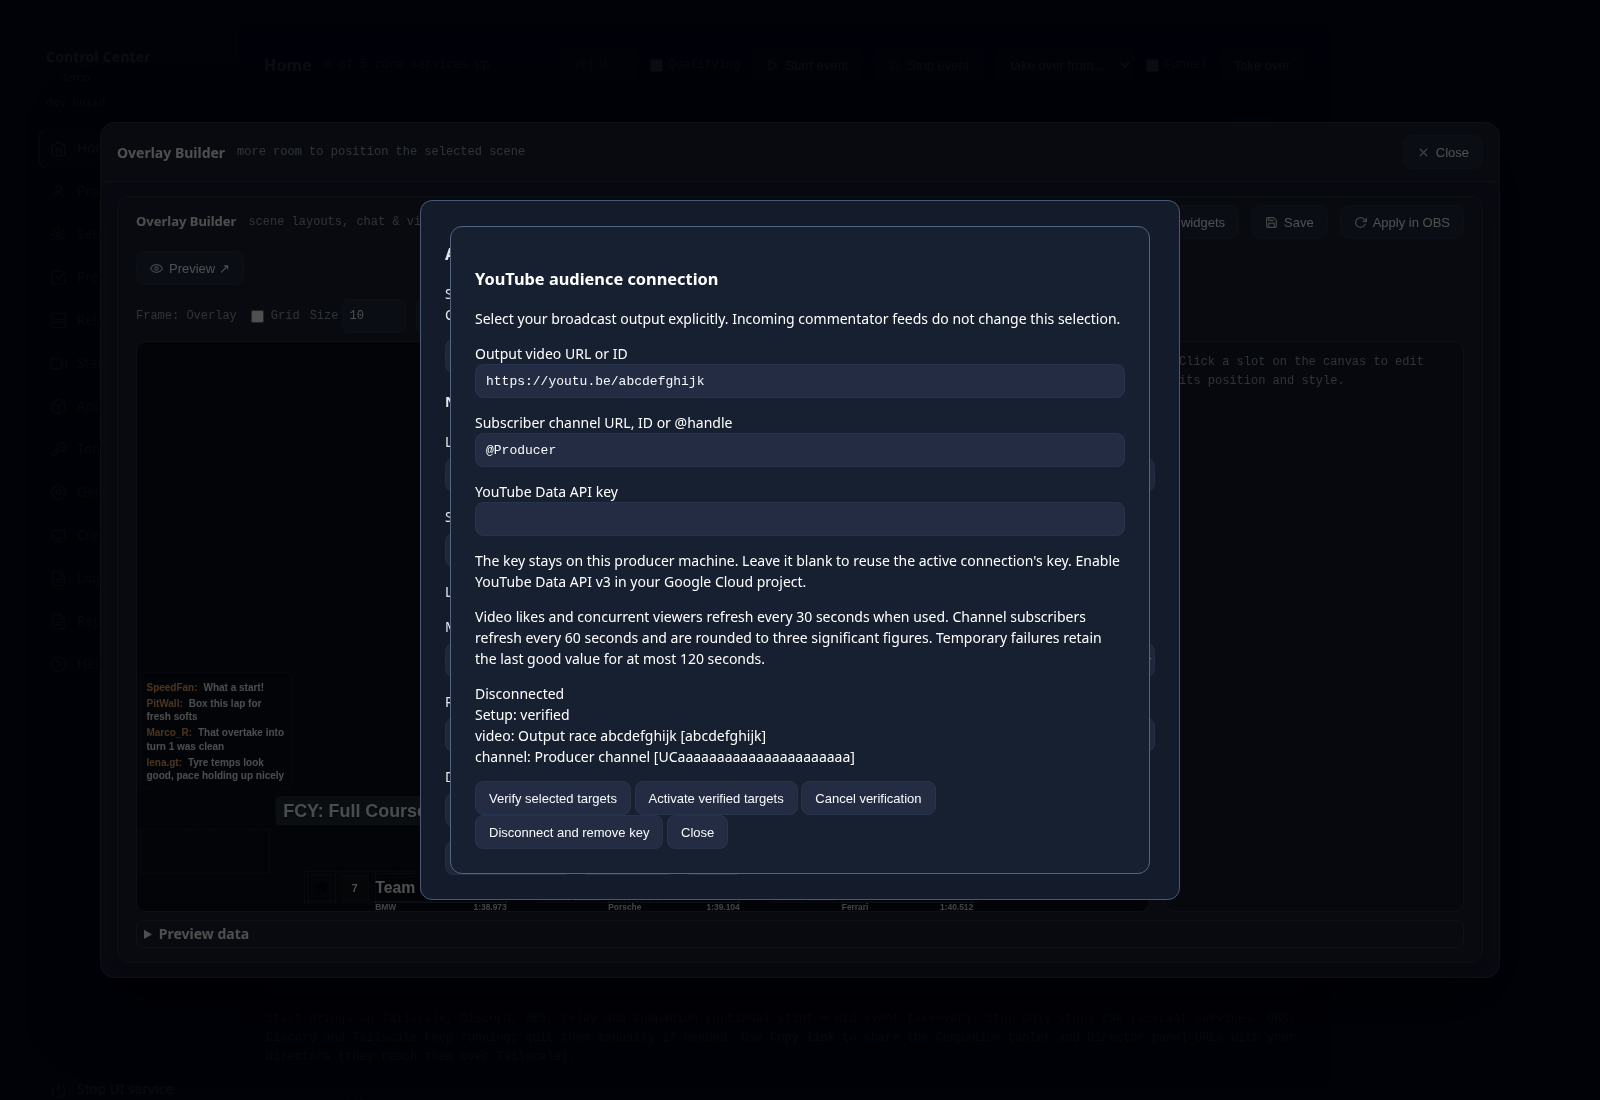
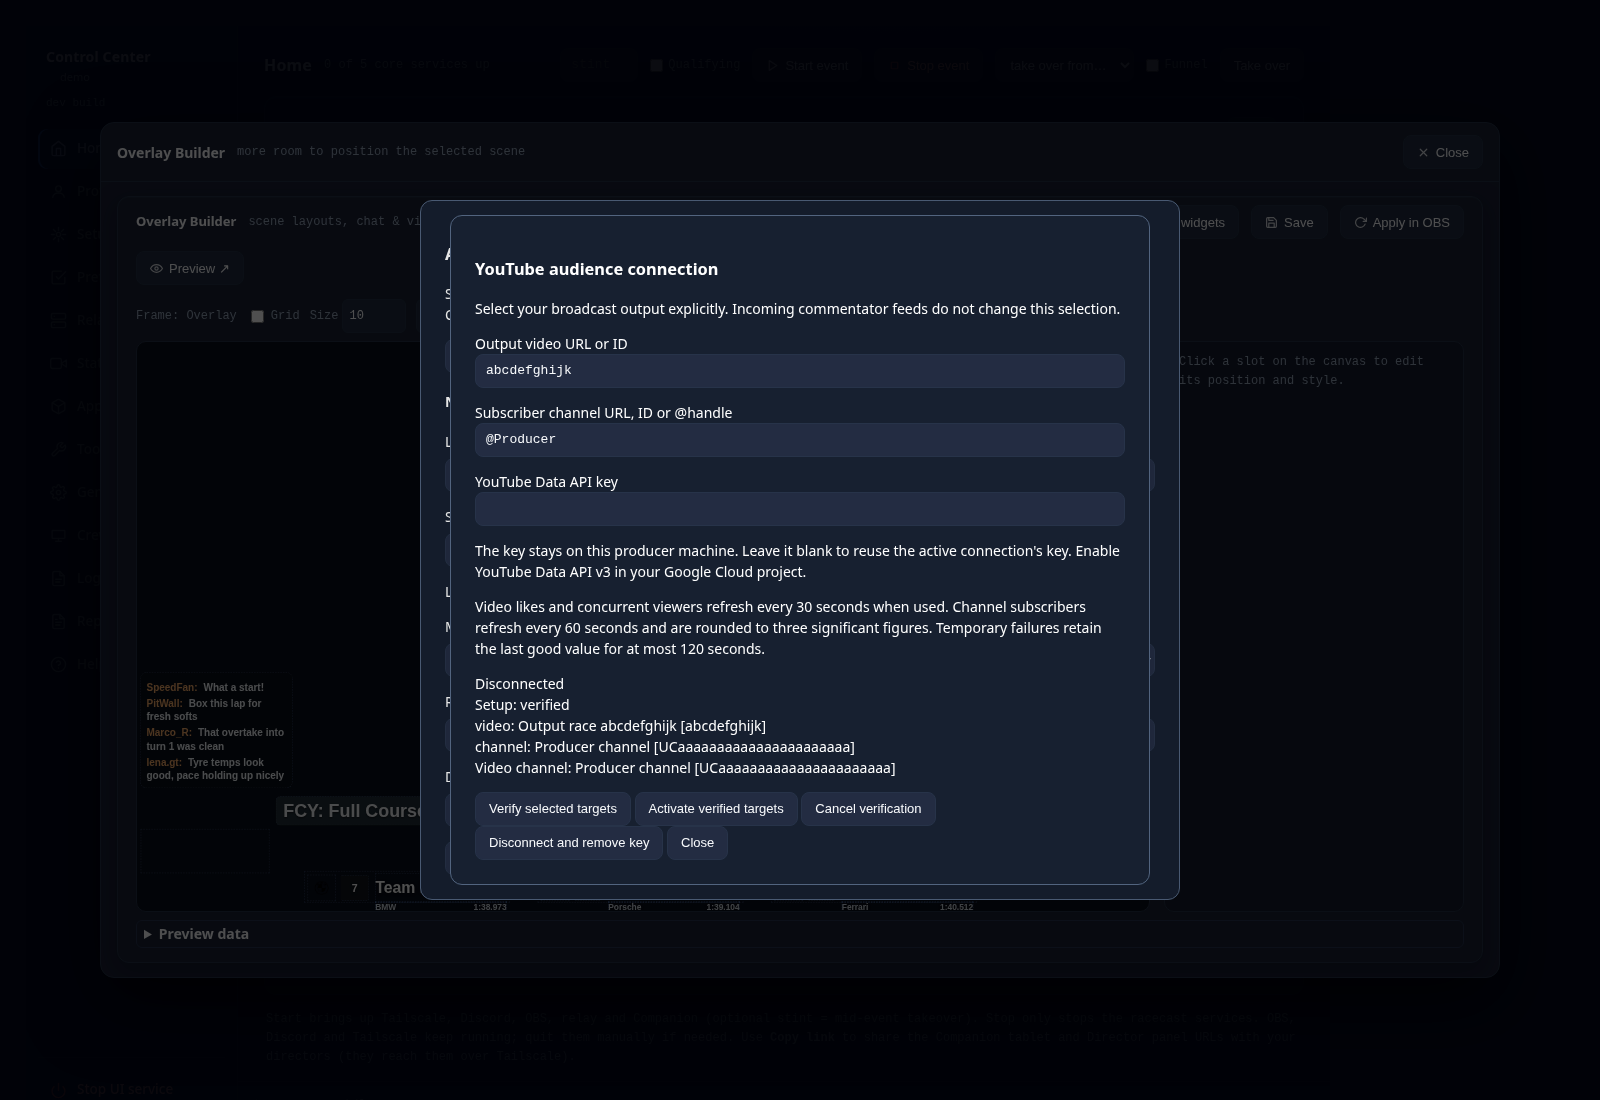
fix(audience): retain setup diagnostics and require edited-target verification

Changed region(s): [[0.2812, 0.4945, 0.7188, 0.7727], [0.2812, 0.2164, 0.6875, 0.4636]]

diff --git a/src/ui/control-center.html b/src/ui/control-center.html
@@ -3130,7 +3130,7 @@ function youtubeCurrent(session) {
 }
 function youtubeOpen() {
   clearTimeout(youtubeTimer);
-  const session = {audience:audienceSession, profile:ovState.active, attempt:null, busy:false, request:0, dirty:false};
+  const session = {audience:audienceSession, profile:ovState.active, attempt:null, busy:false, request:0, dirty:false, changed:false};
   youtubeSession = session;
   $('youtube-key').value = '';
   $('youtube-video').value = '';
@@ -3156,13 +3156,18 @@ async function youtubePoll(session,initial=false) {
     for (const kind of ['video','channel']) {
       if (targets && targets[kind]) lines.push(kind + ': ' + targets[kind].title + ' [' + targets[kind].id + ']');
     }
+    if (targets?.video) lines.push('Video channel: '+targets.video.channelTitle+' ['+targets.video.channelId+']');
+    if (result.connected) for (const [metric,row] of Object.entries(result.metrics || {})) {
+      const number = row.available ? ' · '+(row.precision?.exact === false ? '≈' : '')+new Intl.NumberFormat('en-US', row.precision?.significantDigits ? {maximumSignificantDigits:row.precision.significantDigits} : {maximumFractionDigits:0}).format(row.value) : '';
+      lines.push(metric+': '+row.availability+number+(row.reason ? ' · '+row.reason : ''));
+    }
     if (result.videoState && result.videoState !== 'unknown') lines.push('Broadcast: '+result.videoState);
     if (setup.error || result.error) lines.push(setup.error || result.error);
     $('youtube-status').textContent = lines.join('\n');
-    $('youtube-activate').disabled = setup.phase !== 'verified' || session.busy;
+    $('youtube-activate').disabled = setup.phase !== 'verified' || session.busy || session.changed;
     if (initial && !session.dirty) {
-      $('youtube-video').value = result.targets?.video?.id || '';
-      $('youtube-channel').value = result.targets?.channel?.id || '';
+      $('youtube-video').value = targets?.video?.id || '';
+      $('youtube-channel').value = targets?.channel?.id || '';
     }
   } catch (error) {
     if (youtubeCurrent(session)) $('youtube-status').textContent = error.message;
@@ -3173,11 +3178,13 @@ async function youtubeAction(action,event) {
   if (event) event.preventDefault();
   const session = youtubeSession;
   if (!session || !youtubeCurrent(session) || session.busy) return;
+  if (action === 'activate' && session.changed) { $('youtube-status').textContent = 'Verify the edited targets before activation.'; return; }
   const body = {expectedProfile:session.profile,action,attempt:session.attempt};
   if (action === 'verify') {
     body.video = $('youtube-video').value;
     body.channel = $('youtube-channel').value;
     body.apiKey = $('youtube-key').value;
+    session.changed = false;
   }
   $('youtube-key').value = '';
   session.busy = true;
@@ -3198,7 +3205,9 @@ async function youtubeAction(action,event) {
     if (youtubeCurrent(session)) $('youtube-verify').disabled = false;
   }
 }
-for (const field of ['youtube-video','youtube-channel']) $(field).addEventListener('input',() => { if (youtubeSession) youtubeSession.dirty = true; });
+for (const field of ['youtube-video','youtube-channel','youtube-key']) $(field).addEventListener('input',() => {
+  if (youtubeSession) { youtubeSession.dirty = true; youtubeSession.changed = true; $('youtube-activate').disabled = true; }
+});
 $('youtube-dialog').addEventListener('close',() => {
   clearTimeout(youtubeTimer);
   $('youtube-key').value = '';

diff --git a/src/scripts/audience_youtube_connection.py b/src/scripts/audience_youtube_connection.py
@@ -5,8 +5,8 @@ import threading
 import time
 import uuid
 
-from audience_connections import ConnectionFiles
-from audience_widgets import MetricCache, Sample, Store
+from audience_connections import ConnectionFiles, StorageError
+from audience_widgets import MetricCache, Sample, Store, normalize
 import audience_youtube as yt
 
 METRICS = ("likes", "viewers", "subscribers")
@@ -81,6 +81,7 @@ class Service:
             "",
             "unknown",
         )
+        self.storage_error = ""
         self.due = {"videos": 0, "channels": 0}
         self.backoff, self.auth_failed = 0, False
         public = self.files.read_public()
@@ -133,7 +134,15 @@ class Service:
                     for kind, value in self.targets.items()
                 },
                 "videoState": self.video_state,
-                "error": self.error,
+                "error": self.storage_error or self.error,
+                "metrics": {
+                    metric: normalize(
+                        {"source": "youtube", "metric": metric, "mode": "total"},
+                        self.sample(metric),
+                        now=self.clock(),
+                    )
+                    for metric in METRICS
+                },
                 "setup": {
                     **setup,
                     **(
@@ -194,7 +203,14 @@ class Service:
                 ):
                     raise ValueError("Verify the selected targets before activation")
                 # Commit both files before replacing the working RAM connection.
-                self.files.activate(self.setup["targets"], {"key": self.setup["key"]})
+                try:
+                    self.files.activate(
+                        self.setup["targets"], {"key": self.setup["key"]}
+                    )
+                except StorageError as error:
+                    self.storage_error = str(error)
+                    raise
+                self.storage_error = ""
                 self.targets, self.key = self.setup["targets"], self.setup["key"]
                 self.connected, self.auth_failed = True, False
                 self.generation += 1
@@ -210,7 +226,12 @@ class Service:
                 self.key, self.connected, self.setup = None, False, None
                 self.error, self.video_state = "", "unknown"
                 self._invalidate("YouTube disconnected")
-                self.files.disconnect()
+                try:
+                    self.files.disconnect()
+                except StorageError as error:
+                    self.storage_error = str(error)
+                    raise
+                self.storage_error = ""
             else:
                 raise ValueError("Unsupported YouTube connection action")
             return {"ok": True}

diff --git a/tools/e2e-youtube-audience.py b/tools/e2e-youtube-audience.py
@@ -139,6 +139,21 @@ def main():
                 assert not service.status()["connected"], (
                     "Verification activated without confirmation"
                 )
+                page.fill("#youtube-video", fixtures.OTHER_VIDEO)
+                assert page.locator("#youtube-activate").is_disabled(), (
+                    "Editing a verified target left old activation enabled"
+                )
+                page.fill("#youtube-video", fixtures.VIDEO)
+                page.fill("#youtube-key", fixtures.KEY)
+                page.click("#youtube-verify")
+                page.wait_for_function(
+                    "() => document.getElementById('youtube-status').textContent.includes('pending')"
+                )
+                service.tick()
+                page.wait_for_function(
+                    "() => !document.getElementById('youtube-activate').disabled"
+                )
+                assert "Video channel:" in page.locator("#youtube-status").inner_text()
                 if args.shots:
                     shot(page, "cc-audience-youtube")
                 page.click("#youtube-activate")
@@ -202,6 +217,23 @@ def main():
                 assert fixtures.KEY not in page.content(), (
                     "Credential leaked into rendered markup"
                 )
+
+                def stale_profile(route):
+                    response = route.fetch()
+                    page.evaluate(
+                        "() => { ovState.active='other'; document.getElementById('youtube-video').value='New profile draft'; document.getElementById('youtube-status').textContent='New profile selected'; }"
+                    )
+                    route.fulfill(response=response)
+
+                page.route("**/api/audience/youtube", stale_profile)
+                page.evaluate("() => youtubePoll(youtubeSession)")
+                assert page.input_value("#youtube-video") == "New profile draft"
+                assert (
+                    page.locator("#youtube-status").inner_text()
+                    == "New profile selected"
+                ), "Old profile response overwrote the new form"
+                page.unroute("**/api/audience/youtube", stale_profile)
+                page.evaluate("ovState.active='demo'")
                 assert not errors, errors
                 browser.close()
                 print(

diff --git a/tests/test_audience_youtube_connection.py b/tests/test_audience_youtube_connection.py
@@ -364,6 +364,11 @@ def t_resource_denial_is_independent_but_auth_failure_invalidates_all_metrics():
         service.tick()
         assert not metric(cache, "likes")["available"]
         assert metric(cache, "subscribers")["available"]
+        metrics = service.status().get("metrics", {})
+        assert metrics.get("likes", {}).get("reason") == "Selected video denied", (
+            "Channel success hid the video error"
+        )
+        assert metrics["subscribers"]["available"]
         api.failures["videos"] = yt.APIError("auth", "Invalid API key")
         clock.advance(30)
         service.tick()
@@ -550,6 +555,38 @@ def t_response_processing_and_service_lock_wait_cannot_refresh_observation_age()
         assert metric(cache, "likes")["holdFor"] == 1, (
             "Response processing or lock wait extended the last-good deadline"
         )
+
+
+def t_failed_durable_disconnect_warning_survives_status_reads_until_cleanup():
+    import audience_connections as ac
+
+    with fixture() as (service, _clock, _api, cache, _definitions):
+        connect(service)
+        writer = service.files.writer
+
+        def fail_write(*_args, **_kwargs):
+            raise OSError(KEY)
+
+        service.files.writer = fail_write
+        with patch.object(Path, "unlink", side_effect=OSError(KEY)):
+            try:
+                command(service, "disconnect")
+            except ac.StorageError as error:
+                assert not error.durable and KEY not in str(error)
+            else:
+                raise AssertionError(
+                    "Failed durable disconnection was reported as saved"
+                )
+        assert (
+            not service.status()["connected"]
+            and not metric(cache, "likes")["available"]
+        )
+        assert "restart" in service.status()["error"].lower(), (
+            "Settings hid the restart warning after failed storage"
+        )
+        service.files.writer = writer
+        command(service, "disconnect")
+        assert service.status()["error"] == "" and service.files.load() is None
 
 
 if __name__ == "__main__":

diff --git a/tests/test_audience_youtube_ui.py b/tests/test_audience_youtube_ui.py
@@ -52,6 +52,31 @@ def t_automatic_capture_uses_fresh_cache_and_rejects_profile_change_during_rpc()
             m._env_base, m._runtime_base_dir = original
 
 
+def t_provider_preflight_rejects_absent_process_and_display_name_as_profile_slug():
+    with tempfile.TemporaryDirectory() as td:
+        original = cli._mk_active_profile(td)
+        try:
+            for pid, stamp in ((None, "demo"), (123, "Demo Racing")):
+                with (
+                    patch.object(m.sv, "read_pid", return_value=pid),
+                    patch.object(m, "_running_relay_profile", return_value=stamp),
+                    patch.object(
+                        m.http_util,
+                        "open_url",
+                        side_effect=AssertionError(
+                            "Rejected preflight contacted a port"
+                        ),
+                    ),
+                ):
+                    result = m.audience_youtube_data()
+                    assert not result["ok"] and "profile" in result["error"].lower(), (
+                        result
+                    )
+        finally:
+            m._env_base, m._runtime_base_dir = original
+
+
 if __name__ == "__main__":
     t_automatic_capture_uses_fresh_cache_and_rejects_profile_change_during_rpc()
-    print("PASS automatic cached baseline callback")
+    t_provider_preflight_rejects_absent_process_and_display_name_as_profile_slug()
+    print("PASS automatic cached baseline and provider preflight callbacks")

diff --git a/src/docs/wiki/HUD-Overlays.md b/src/docs/wiki/HUD-Overlays.md
@@ -356,7 +356,10 @@ channel are explicit choices; incoming commentator feeds never change them.
 A channel's dynamic `/live` shortcut is not a concrete video selection.
 
 Choose **Verify selected targets**, check the resolved titles and IDs, then
-**Activate verified targets**. Verification alone keeps the current connection.
+**Activate verified targets**. The dialog shows the video owner and subscriber
+channel separately, plus cached availability and errors per metric. Editing a
+verified target or key requires verification again. Verification alone keeps the
+current connection.
 **Cancel verification** discards the candidate. A candidate expires after five
 minutes. Leave the key field blank to reuse the current local key when changing
 targets. **Disconnect and remove key** hides automatic values immediately and
